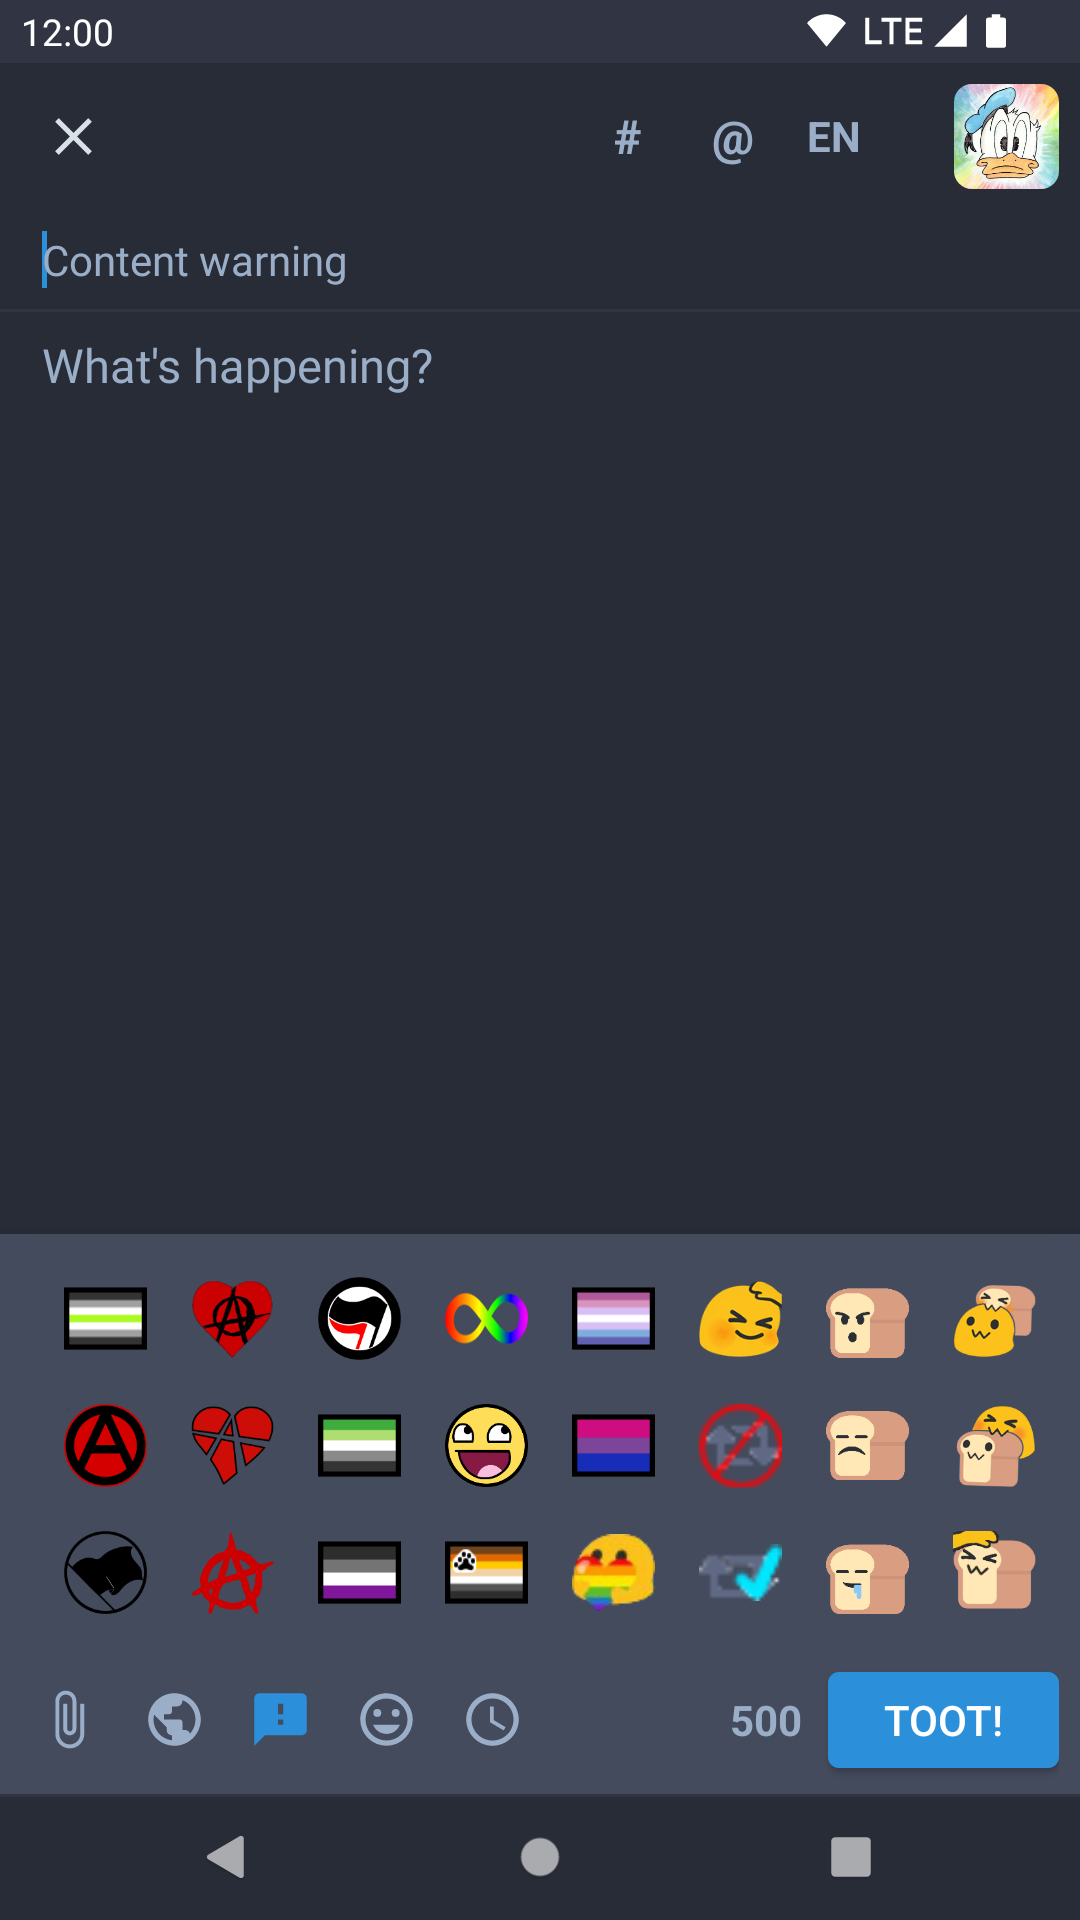
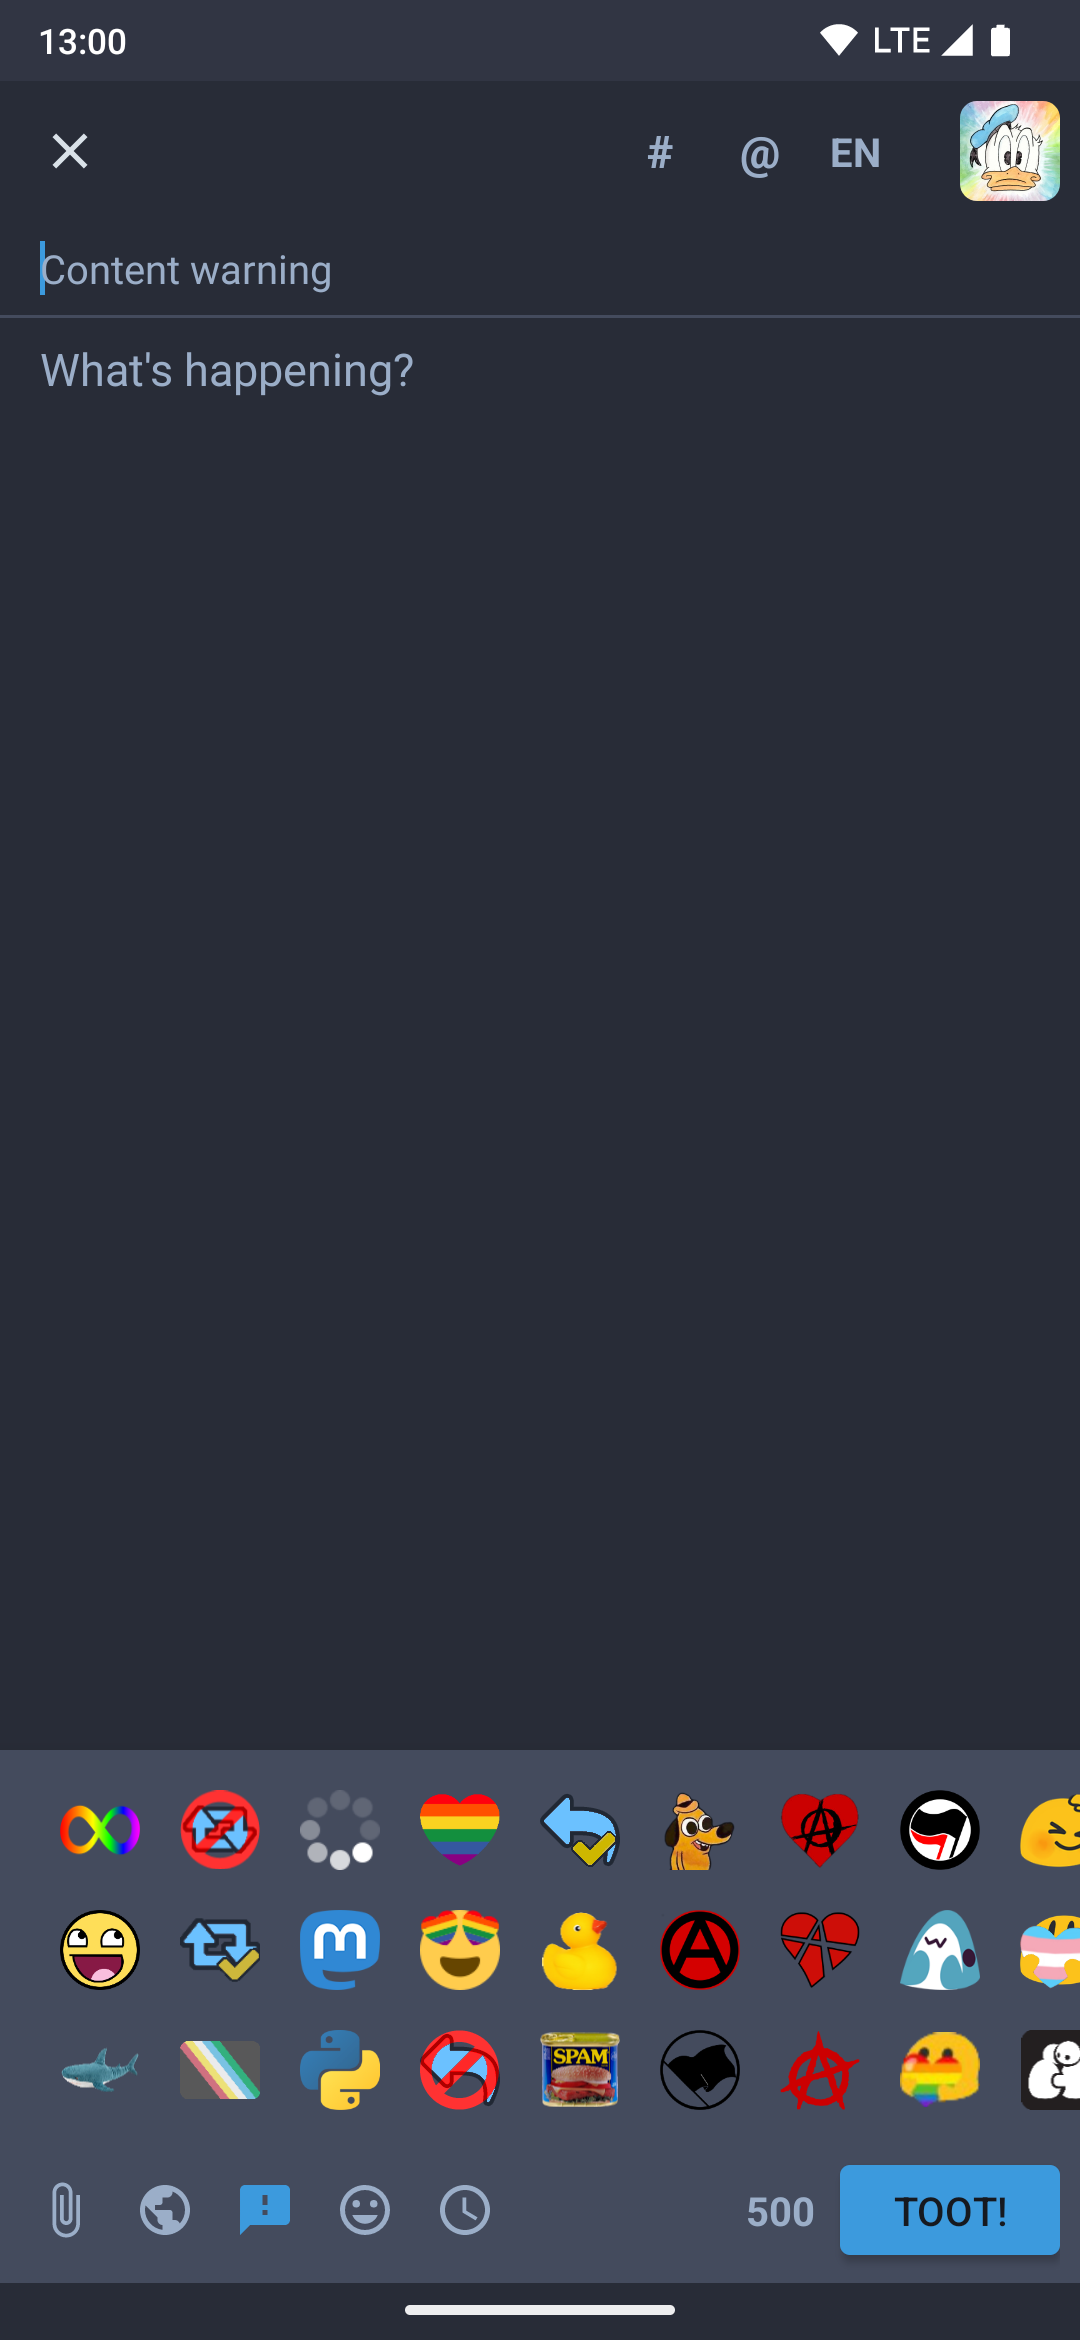
prepare release v26.0 beta 1 (#4542)

diff --git a/CHANGELOG.md b/CHANGELOG.md
@@ -6,6 +6,49 @@
 
 ### Significant bug fixes
 
+## v26.0
+
+### New features and other improvements
+
+- The blue primary color that previously was the same for all themes is now slightly lighter in the dark theme and darker in the light theme for better contrast.
+  Consequently, the color that is used on top of the primary color (e.g. on buttons) is now dark instead of white in the dark theme. [PR#3921](https://github.com/tuskyapp/Tusky/pull/3921) [PR#4507](https://github.com/tuskyapp/Tusky/pull/4507)
+- New account preference "default reply privacy".
+  Note that in contrast to the "default post privacy" this setting will not be synced with the server as Mastodon does not have this feature. [PR#4496](https://github.com/tuskyapp/Tusky/pull/4496)
+- New preference "Show confirmation before following" [PR#4445](https://github.com/tuskyapp/Tusky/pull/4445)
+- The notification tab is now cached on the device for better offline behavior.
+  Since it shares the cache with the home timeline, interactions with posts will now sync between those tabs more often than before. [PR#4026](https://github.com/tuskyapp/Tusky/pull/4026)
+- Tusky will now only make one call to the server to check which version of the filters api is supported and cache the result instead of everytime filters are needed. [PR#4539](https://github.com/tuskyapp/Tusky/pull/4539)
+- The "Hide compose button while scrolling" preference, which had the main purpose of making content behind the button accessible, has been removed and bottom padding added to all lists that could be obscured by buttons. [PR#4486](https://github.com/tuskyapp/Tusky/pull/4486)
+- When viewing media of a translated post the media descriptions will now also be translated [PR#4463](https://github.com/tuskyapp/Tusky/pull/4463)
+- The custom emojis in the emoji picker are now sorted by category [PR#4533](https://github.com/tuskyapp/Tusky/pull/4533)
+- Various internal refactorings to improve performance and maintainability.
+  [PR#4515](https://github.com/tuskyapp/Tusky/pull/4515)
+  [PR#4502](https://github.com/tuskyapp/Tusky/pull/4502)
+  [PR#4472](https://github.com/tuskyapp/Tusky/pull/4472)
+  [PR#4470](https://github.com/tuskyapp/Tusky/pull/4470)
+  [PR#4443](https://github.com/tuskyapp/Tusky/pull/4443)
+  [PR#4441](https://github.com/tuskyapp/Tusky/pull/4441)
+  [PR#4461](https://github.com/tuskyapp/Tusky/pull/4461)
+  [PR#4447](https://github.com/tuskyapp/Tusky/pull/4447)
+  [PR#4411](https://github.com/tuskyapp/Tusky/pull/4411)
+  [PR#4413](https://github.com/tuskyapp/Tusky/pull/4413)
+
+### Significant bug fixes
+
+- Posts with null media focus values will no longer cause Tusky to show an error [PR#4462](https://github.com/tuskyapp/Tusky/pull/4462)
+- A lot of other bugfixes, mostly smaller display bugs
+  [PR#4536](https://github.com/tuskyapp/Tusky/pull/4536)
+  [PR#4537](https://github.com/tuskyapp/Tusky/pull/4537)
+  [PR#4527](https://github.com/tuskyapp/Tusky/pull/4527)
+  [PR#4521](https://github.com/tuskyapp/Tusky/pull/4521)
+  [PR#4525](https://github.com/tuskyapp/Tusky/pull/4525)
+  [PR#4518](https://github.com/tuskyapp/Tusky/pull/4518)
+  [PR#4514](https://github.com/tuskyapp/Tusky/pull/4514)
+  [PR#4491](https://github.com/tuskyapp/Tusky/pull/4491)
+  [PR#4490](https://github.com/tuskyapp/Tusky/pull/4490)
+  [PR#4474](https://github.com/tuskyapp/Tusky/pull/4474)
+  [PR#4436](https://github.com/tuskyapp/Tusky/pull/4436)
+
 ## v25.2
 
 ### Significant bug fixes
